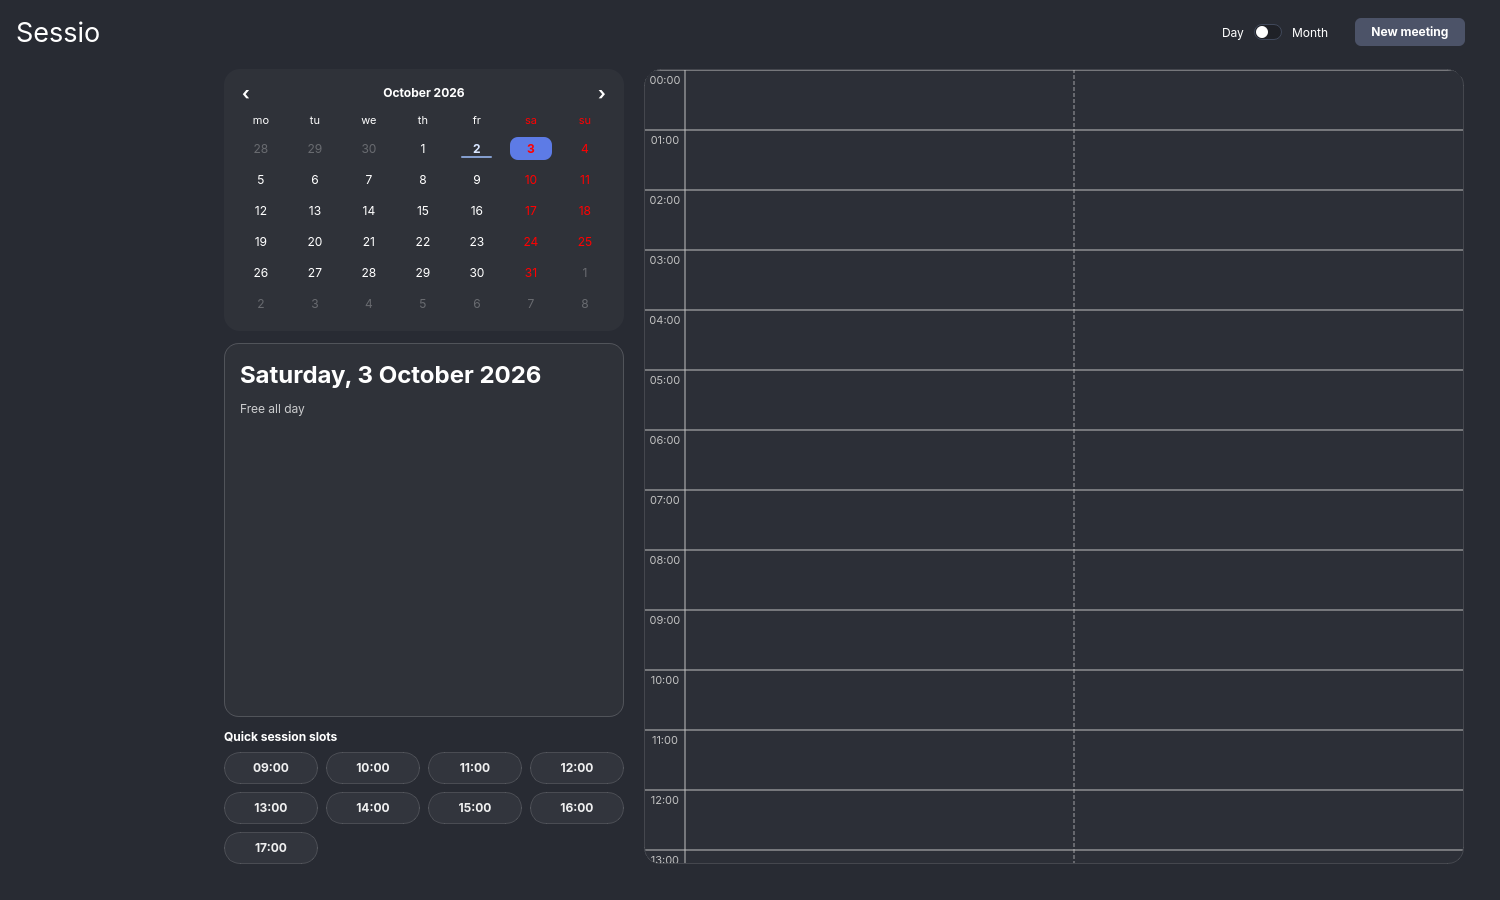
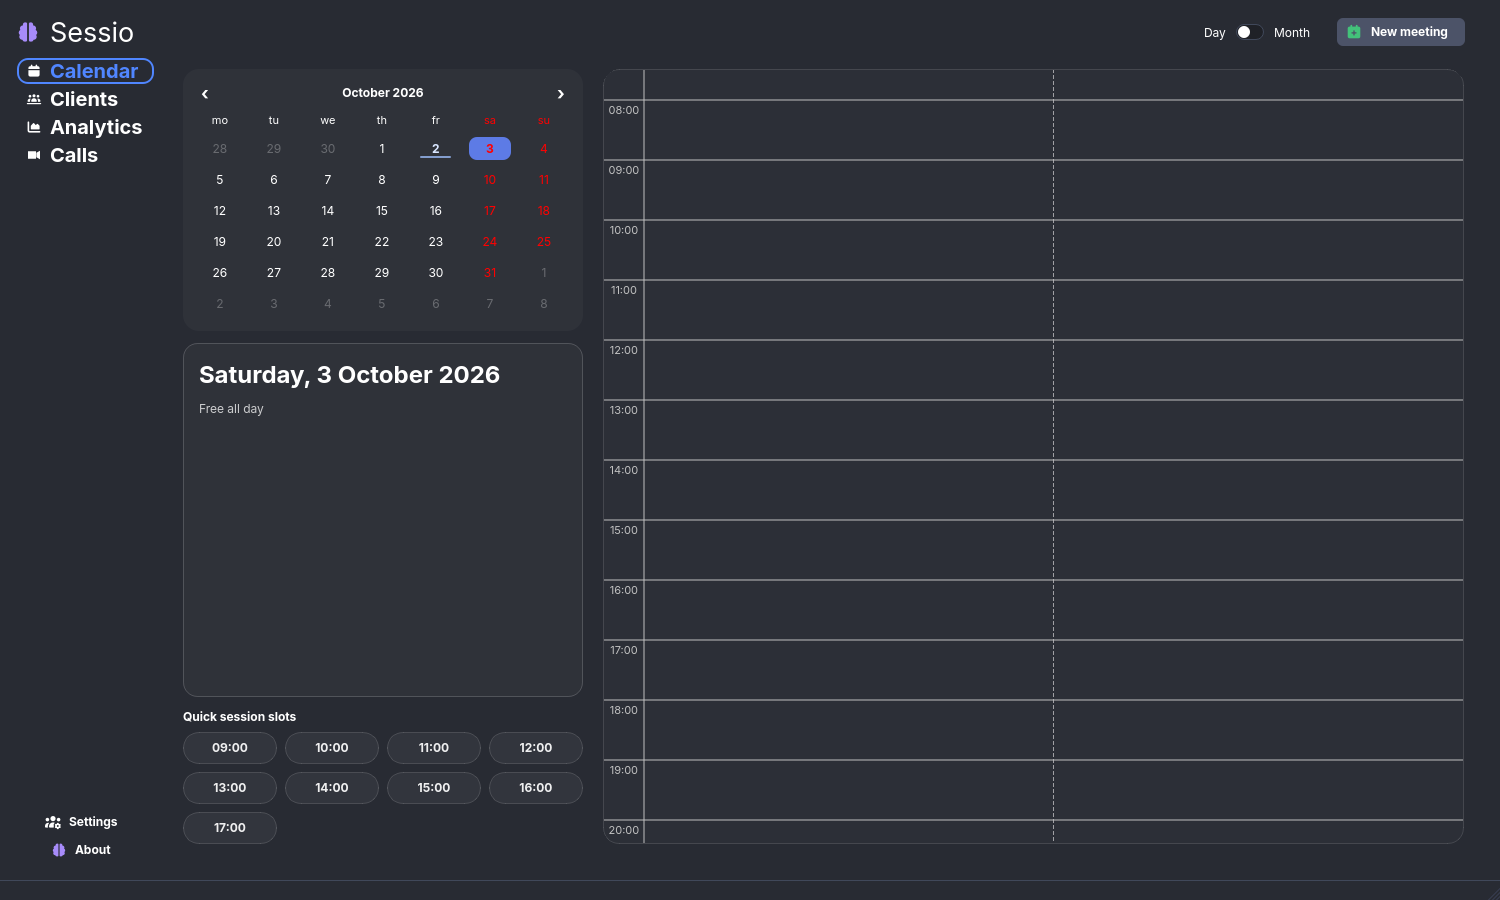
Align month grid bottom with the left column (#102)
Remove the upper bound on month row height so rows share the whole centre
height and the grid always ends where the left column ends. Add tests for
5- and 6-row months at several window sizes, and refresh screenshots taken
on the real MainWindow.

diff --git a/test/calendar_layout_tests.cpp b/test/calendar_layout_tests.cpp
@@ -677,15 +677,27 @@ TEST_F(CalendarLayoutTest, InfoPanelIsOneCardWithTheSelectedDateAsHeading) {
   EXPECT_TRUE(heading->text().contains(QLocale().standaloneMonthName(5, QLocale::LongFormat)) ||
               heading->text().contains(QLocale().monthName(5, QLocale::LongFormat)));
 }
-TEST_F(CalendarLayoutTest, MonthGridFillsTheCentreHeight) {
+TEST_F(CalendarLayoutTest, MonthGridBottomMeetsTheLeftColumnBottomAtAnySize) {
   QEventInfoPage page(model.get(), nullptr, nullptr);
-  page.resize(1275, 1290);
-  page.show();
-  page.setMonthView(true);
-  QApplication::processEvents();
   auto *month = page.findChild<MonthCalendarWidget *>();
-  auto *centre = page.findChild<QStackedWidget *>("calendarCenterStack");
-  EXPECT_GE(month->height(), centre->height() - 4);
+  auto *left = page.findChild<QWidget *>("calendarLeftColumn");
+  auto *day = page.findChild<QTimelineWidget *>();
+  const auto bottomOf = [&page](QWidget *w) { return w->mapTo(&page, QPoint(0, w->height())).y(); };
+  for (const auto &month6 : {QDate(2026, 10, 1), QDate(2026, 3, 1)}) { // 5 and 6 rows
+    for (const auto size : {QSize(2000, 1200), QSize(1920, 1060), QSize(1500, 880), QSize(1275, 1375), QSize(3000, 2000)}) {
+      page.setMonthView(false);
+      QMetaObject::invokeMethod(&page, "onCalendarClicked", Q_ARG(QDate, month6));
+      page.resize(size);
+      page.show();
+      QApplication::processEvents();
+      EXPECT_NEAR(bottomOf(day), bottomOf(left), 1) << size.width() << "x" << size.height();
+      page.setMonthView(true);
+      QApplication::processEvents();
+      EXPECT_EQ(month->firstVisibleDate(), MonthCalendarWidget::visibleRange(month6).first);
+      EXPECT_NEAR(bottomOf(month), bottomOf(left), 1)
+          << month6.toString().toStdString() << " " << size.width() << "x" << size.height();
+    }
+  }
 }
 } // namespace
 int main(int argc, char **argv) {

diff --git a/test/month_calendar_tests.cpp b/test/month_calendar_tests.cpp
@@ -350,19 +350,27 @@ TEST(MonthCalendarTest, SelectedDayBadgeShowsItsNumberAgainstTheFilledCircle) {
   EXPECT_GT(numberPixels, 15);  // with a visible number on it
 }
 
-TEST(MonthCalendarTest, RowHeightIsCappedInATallWindow) {
+TEST(MonthCalendarTest, RowsShareTheWholeHeightEvenInATallWindow) {
   MonthCalendarWidget widget;
   widget.setMonth(QDate(2026, 10, 1));
-  widget.resize(1000, 3000);
+  widget.resize(1000, 1500);
   widget.show();
   QApplication::processEvents();
   const auto dates = widget.findChildren<QToolButton *>("monthDate");
   ASSERT_EQ(dates.size(), 35);
+  int bottom = 0;
+  int minHeight = 100000;
+  int maxHeight = 0;
   for (auto *button : dates) {
-    EXPECT_GE(button->parentWidget()->height(), 96);
-    EXPECT_LE(button->parentWidget()->height(), 260);
+    auto *cell = button->parentWidget();
+    bottom = std::max(bottom, cell->geometry().bottom() + 1);
+    minHeight = std::min(minHeight, cell->height());
+    maxHeight = std::max(maxHeight, cell->height());
   }
-  EXPECT_LT(widget.height(), 3000);
+  EXPECT_GE(minHeight, 96);
+  EXPECT_LE(maxHeight - minHeight, 1);        // equal rows
+  EXPECT_EQ(bottom, widget.height());         // the last row ends at the widget bottom
+  EXPECT_EQ(widget.height(), 1500);
 }
 
 } // namespace

diff --git a/src/pages/event_info_page/month_calendar_widget.cpp b/src/pages/event_info_page/month_calendar_widget.cpp
@@ -37,7 +37,6 @@ QString eventLabel(const DuckEvent &event) {
 
 // Layout metrics (device independent pixels).
 constexpr int kMinRowHeight = 112;
-constexpr int kMaxRowHeight = 260;
 constexpr int kChipHeight = 38; // two lines: time, then title
 constexpr int kMoreHeight = 18;
 constexpr int kChipGap = 3;
@@ -472,9 +471,10 @@ void MonthCalendarWidget::rebuild() {
     mGrid->setRowMinimumHeight(row, row <= rows ? kMinRowHeight : 0);
   }
   const auto headerHeight = std::max(28, fontMetrics().height() + 10);
-  // Rows share extra height but never grow into huge empty cells.
+  // Rows share all extra height equally, so the grid's bottom edge always meets
+  // the bottom of the area it lives in (and the left column beside it).
   setMinimumHeight(headerHeight + rows * kMinRowHeight);
-  setMaximumHeight(headerHeight + rows * kMaxRowHeight);
+  setMaximumHeight(QWIDGETSIZE_MAX);
   for (int column = 0; column < 7; ++column) {
     const auto weekday = (origin - 1 + column) % 7 + 1;
     auto *label = new WeekdayLabel(locale.standaloneDayName(weekday, QLocale::ShortFormat), this);

diff --git a/docs/verification/102/README.md b/docs/verification/102/README.md
@@ -19,11 +19,11 @@
 - Месячная сетка: число выбранного дня видно (плашка-круг, ранее текст скрывался
   у checked-кнопки), сегодня — кольцо, соседние дни приглушены, плашки событий
   (точка, время, название; акцент для рабочих, нейтральный для личных),
-  тонкие линии сетки, строки 112–260 px.
+  тонкие линии сетки, строки не ниже 112 px, без верхнего предела.
 - Дневная шкала прокручивается к первой встрече дня (или 08:00), если она не видна.
 - Правки после проверки живого приложения: группа «День / Switch / Месяц» и «New meeting»
   вместе у правого края верхней строки; названия месяцев в выборе месяца единообразно
-  из 3 букв («Sep», «Сен»); месячная сетка заполняет высоту центра (строки 112–260 px,
+  из 3 букв («Sep», «Сен»); месячная сетка заполняет высоту центра (строки не ниже 112 px, без верхнего предела,
   низ сетки выровнен с низом левой колонки); сводка дня и инспектор встречи лежат
   в ОДНОЙ карточке (`infoPanelCard`), заголовок дня — выбранная дата; подписи дней недели
   выровнены по левому краю с номерами дней.
@@ -43,7 +43,20 @@
   кнопки на всю ширину, прокрутка к первой встрече.
 - Переводы: `update_translations` выполнен, 0 `type="unfinished"` в `app_ru.ts` и `app_en.ts` (разбор XML).
 
+## Выравнивание низа сетки с левой колонкой (после проверки в живом окне 2000x1220)
+
+Низ месячной сетки, дневной шкалы и левой колонки (низ быстрых слотов) совпадает на
+2000x1220, 1920x1080, 1500x900, 1275x1395, 1100x720, для месяцев из 5 строк (окт. 2026)
+и 6 строк (март 2026; на 1100x720 6-строчная сетка выше окна и прокручивается).
+Измерено на настоящем `MainWindow` (offscreen; поля, строка состояния, навигация —
+как в приложении), а не только на макете. Причина зазора ~70 px в живом окне:
+верхний предел высоты строки (160, затем 260 px) — при экранном масштабе ~1.25
+160 px = 200 px, как и измерил заказчик (~203 px). Предел убран: строки делят всю
+высоту поровну (минимум 112 px).
+
 ## Скриншоты
+
+Снимки сделаны на настоящем `MainWindow` (с навигацией и строкой состояния).
 
 Настоящий `QEventInfoPage` в окне, имитирующем главное окно (заголовок «Sessio» и
 верхняя строка с `headerControls()`), реальная тема Qlementine Dark, offscreen,
@@ -73,7 +86,7 @@
   Статус синхронизации серии и подсказка «Use one link…» появляются только при подключённом
   `SeriesCallService`; в harness его нет, поэтому на снимках их не видно.
 - Плашки событий двухстрочные (время, затем название), а не однострочные: при ширине центра
-  ~600 px ячейка 85 px, иначе название исчезает. Высота строки 112–260 px (растягивается по высоте окна; эталон ~128).
+  ~600 px ячейка 85 px, иначе название исчезает. Высота строки (≥112 px, растягивается по высоте окна; эталон ~128).
 - Цвета — тёмная тема приложения (акцент `Highlight` для рабочих, нейтральный для личных).
 - Дневная шкала — исходная (две колонки, пунктир по центру); в рамках этой правки не
   перерабатывалась; добавлена только автопрокрутка.

diff --git a/CHANGELOG.md b/CHANGELOG.md
@@ -10,8 +10,9 @@ All notable changes to this project will be documented in this file.
   title; accent colour for work meetings, neutral for personal ones), dimmed
   neighbouring days, a filled badge with the day number for the selected day, a
   ring for today, the week starting according to the system locale, and a
-  "+N more" link in days that have more meetings than fit in the cell. Rows keep
-  a moderate height in tall windows. Meetings crossing midnight and occurrences
+  "+N more" link in days that have more meetings than fit in the cell. Rows share the
+  window height equally (at least 112 px) so the grid ends at the bottom of the
+  left column. Meetings crossing midnight and occurrences
   of recurring series are shown in every affected day.
 - A Day / Month switch and the "New meeting" button in the top row of the
   Calendar page.
